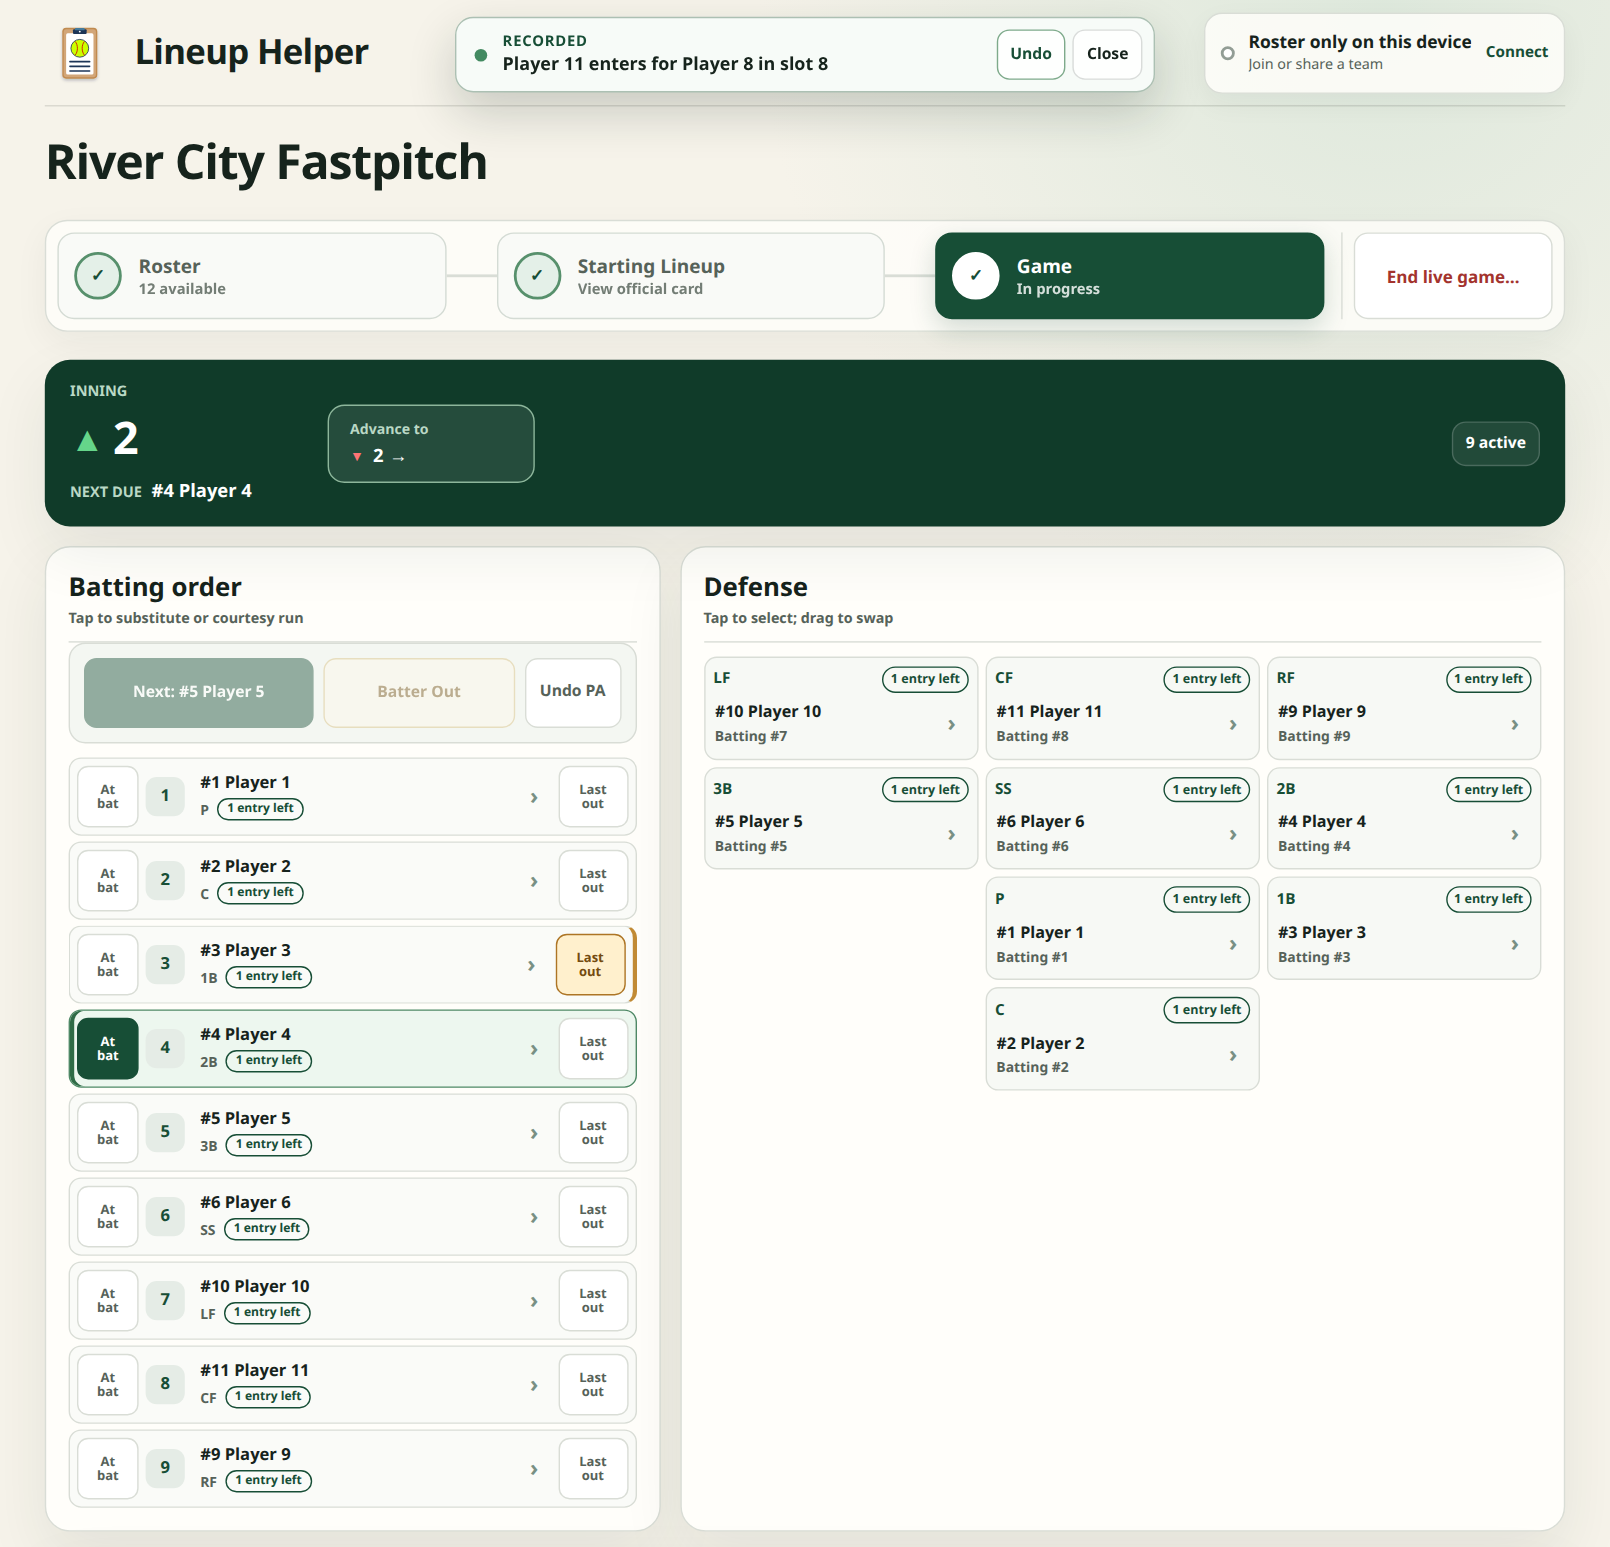
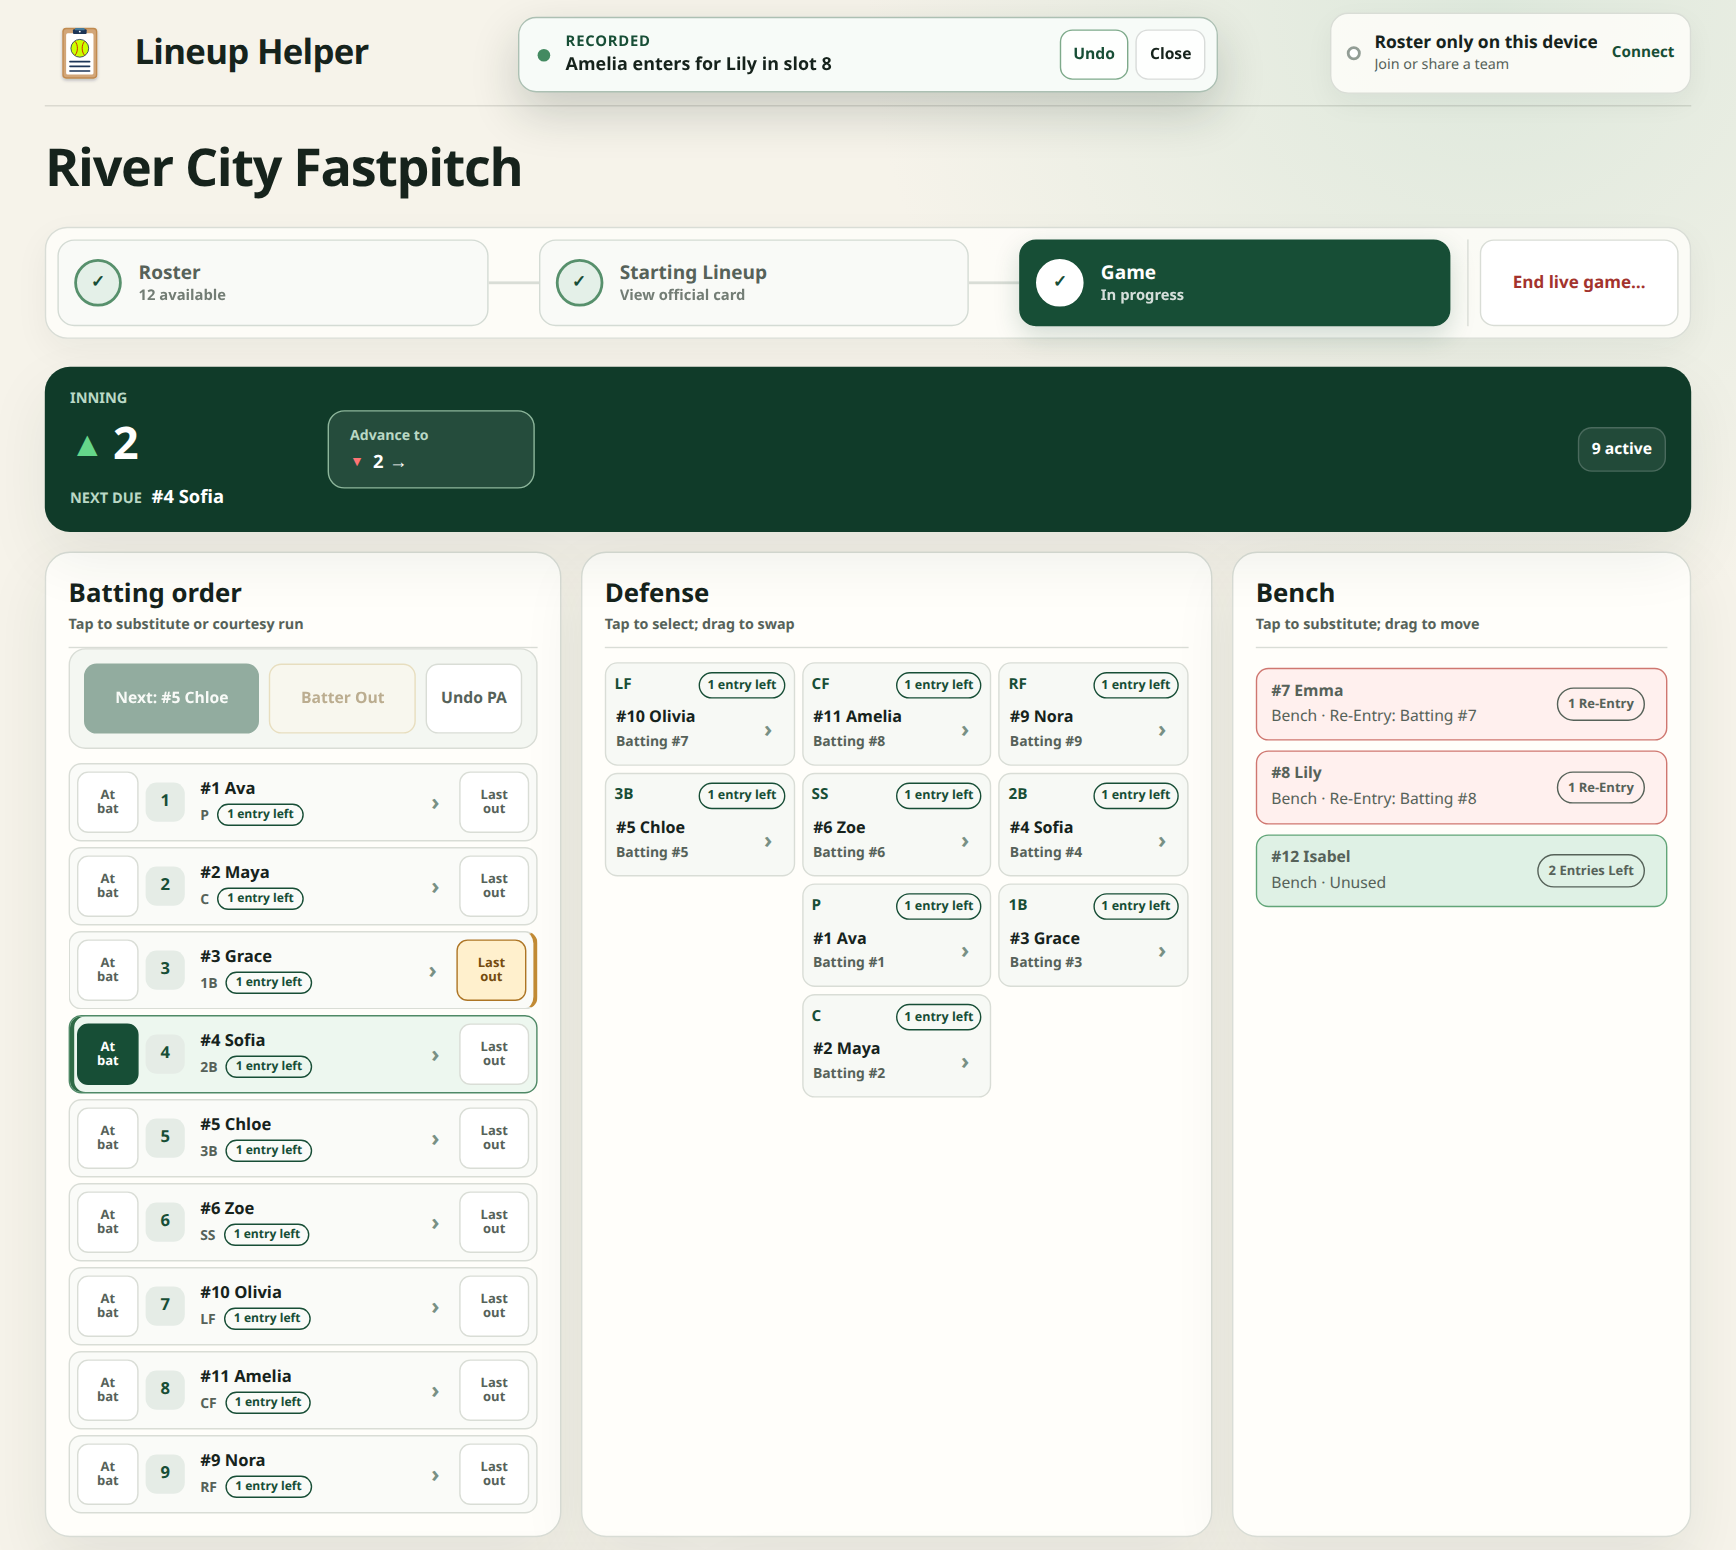
Show named players in the Lineup Helper sample and refresh portfolio copy

diff --git a/src/data/projects.ts b/src/data/projects.ts
@@ -14,7 +14,7 @@ export const site = {
   home: {
     pageTitle: "David Wong — Custom software",
     description: "I build custom software for the people doing the work. Explore Lineup Helper, qList, and my background in enterprise IT and application development.",
-    intro: "I build custom software for small businesses. I start with the people doing the work and the tools they wish they had.",
+    intro: "I build custom software for businesses and professionals. I start with the people doing the work and the tools they wish they had.",
     projectsButton: "Explore my projects",
     projectsHeading: "Selected projects",
     storyLink: "Read project story",
@@ -25,7 +25,7 @@ export const site = {
     entries: [
       {
         title: "Intel",
-        text: "I developed IT security tools, led a team through major releases, and trained users and support teams worldwide. I also partnered with our largest customers advising them on integrations of their software with our APIs and hardware features.",
+        text: "I developed security apps used by hundreds of thousands, led a team through major releases, and trained users and support teams worldwide. I also partnered with our largest customers to conceive and build user-friendly integrations of their software with our APIs and hardware features.",
       },
       {
         title: "NASA",
@@ -37,7 +37,7 @@ export const site = {
       },
       {
         title: "At home",
-        text: "Building tools to help our family and families like ours, including the qList app for quick shared lists.",
+        text: "Building small tools to help our family and families like ours, including the qList app for quick shared lists.",
       },
       {
         title: "Education",
@@ -74,7 +74,7 @@ export const projects = [
     approach: "With Lineup Helper, we can start with the players available that day, build the batting order and defense, and check our substitutions against the rules. If you’d like to try it, load the sample roster and put together a starting lineup.",
     cover: "/images/pitcher.webp",
     image: "/images/live-game.webp",
-    imageAlt: "Lineup Helper in the top of the second inning. Players 10 and 11 are now in left and center field, and the batting order shows their new slots.",
+    imageAlt: "Lineup Helper in the top of the second inning. Olivia is in left field, and Amelia has just replaced Lily in center field and the eighth batting slot.",
     caption: "Players come off the bench in the second inning of a sample game. Lineup Helper tracks player availability and usage and keeps the batting order and defense in sync.",
     tint: "#42336d",
   },
